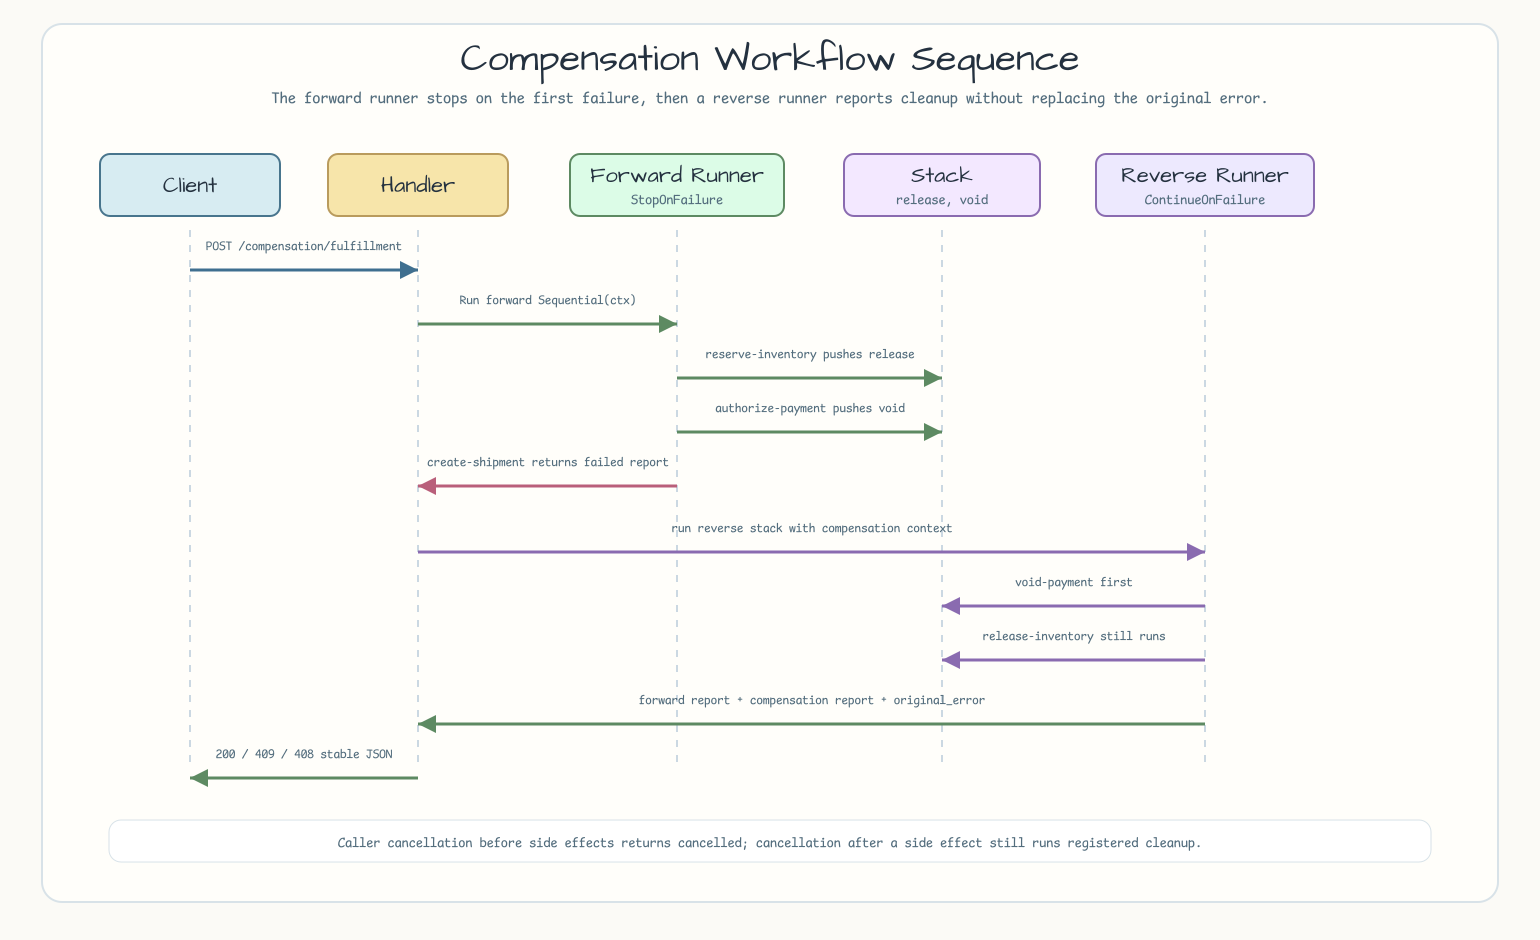
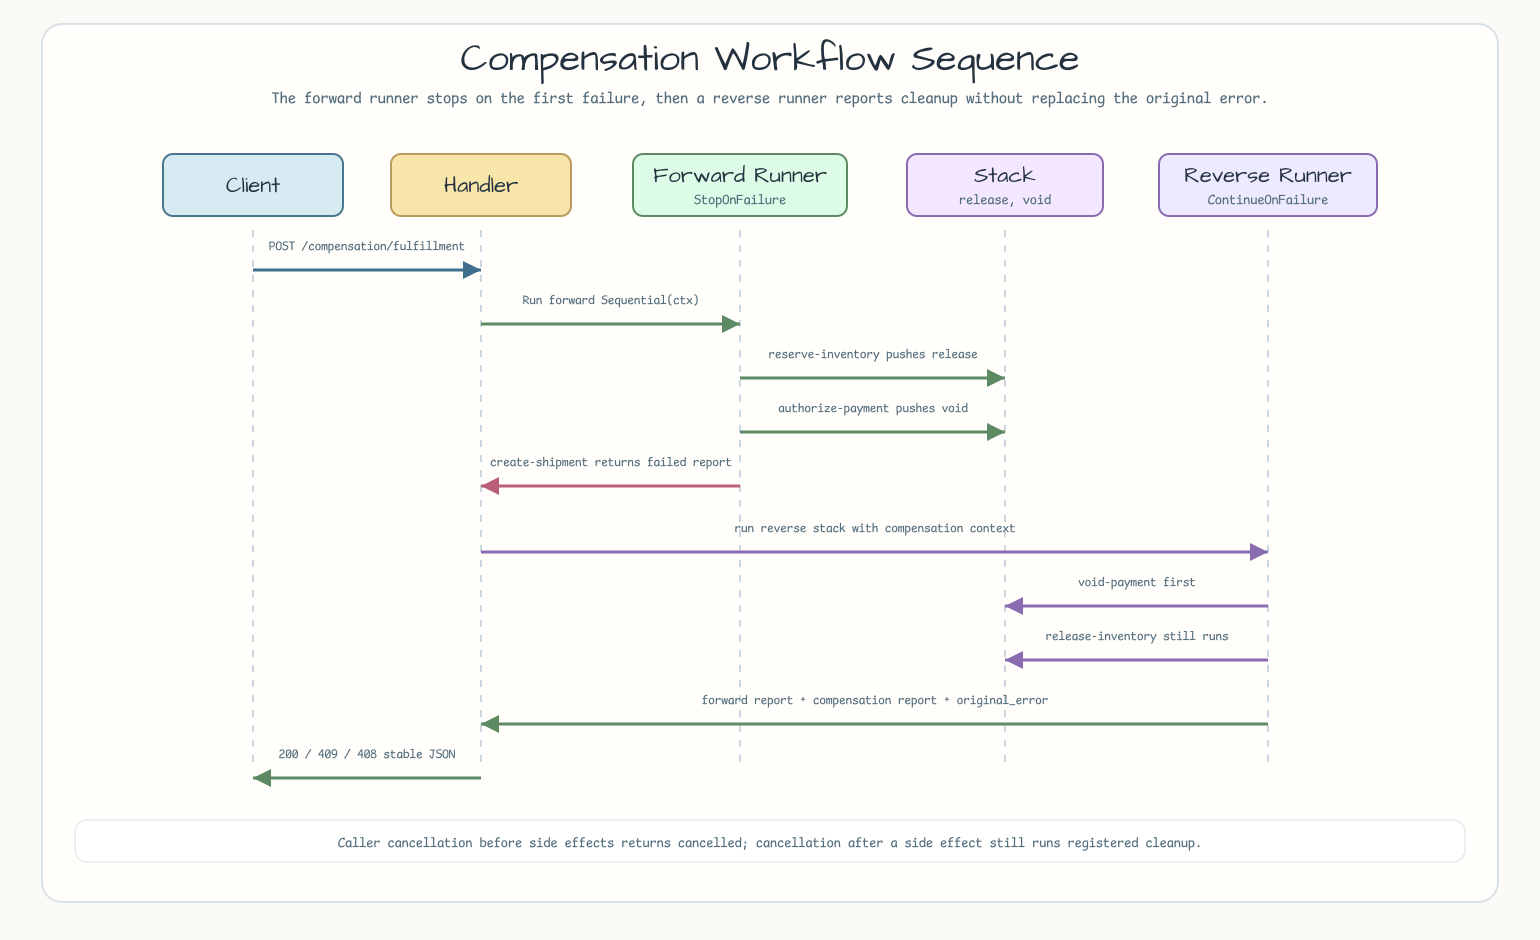
Balance compensation diagram frame margins
Constraint: PR #86 diagram review requires visibly balanced Top/Bottom/Left/Right frame margins, not only decorated assets.

Rejected: Leaving marginImbalance as a fixed zero | The generator now prints bounded L/R/T/B margin values and fails when the delta is too large.

Confidence: high

Scope-risk: narrow

Directive: Keep README diagram generators reporting concrete margin evidence when review feedback catches spacing imbalance.

Tested: ./scripts/generate-compensation-workflow-diagrams.sh; git diff --check; rg stale-font/placeholders; rg README non-PNG embeds; go test -count=1 ./examples/compensation-workflow/...; make ci

Not-tested: none

diff --git a/docs/superpowers/reviews/2026-06-08-issue-71-compensation-workflow-code-review.md b/docs/superpowers/reviews/2026-06-08-issue-71-compensation-workflow-code-review.md
@@ -18,6 +18,7 @@
 |---|---|---|
 | 1 | P1 candidate: caller cancellation after a reversible forward step could leave cleanup unrun if compensation used the cancelled request context. | Fixed by running registered compensation with `context.WithoutCancel(ctx)` when the forward report is cancelled after side effects, and by adding `TestCompensationRunCancellationAfterSideEffectStillCleansUp`. |
 | 2 | Diagram review finding: final README diagrams looked like raw Graphviz evidence and missed the workshop baseline decorator frame, visual bands, footer, and richer route context. | Reworked final scenario, architecture, and sequence SVG/PNG assets as decorated hand-authored README diagrams while keeping Graphviz `.dot`, `.plain`, and `*-graphviz.*` files as route evidence. Re-rendered and visually inspected all three PNGs. |
+| 3 | Diagram review finding: frame Top/Bottom/Left/Right margins were visually imbalanced, especially in the sequence diagram. | Centered the sequence participant/lifeline/message body, widened its footer to match the frame, and added explicit generator margin output and failure gating for L/R/T/B values. |
 
 ## 7-Tier Findings
 
